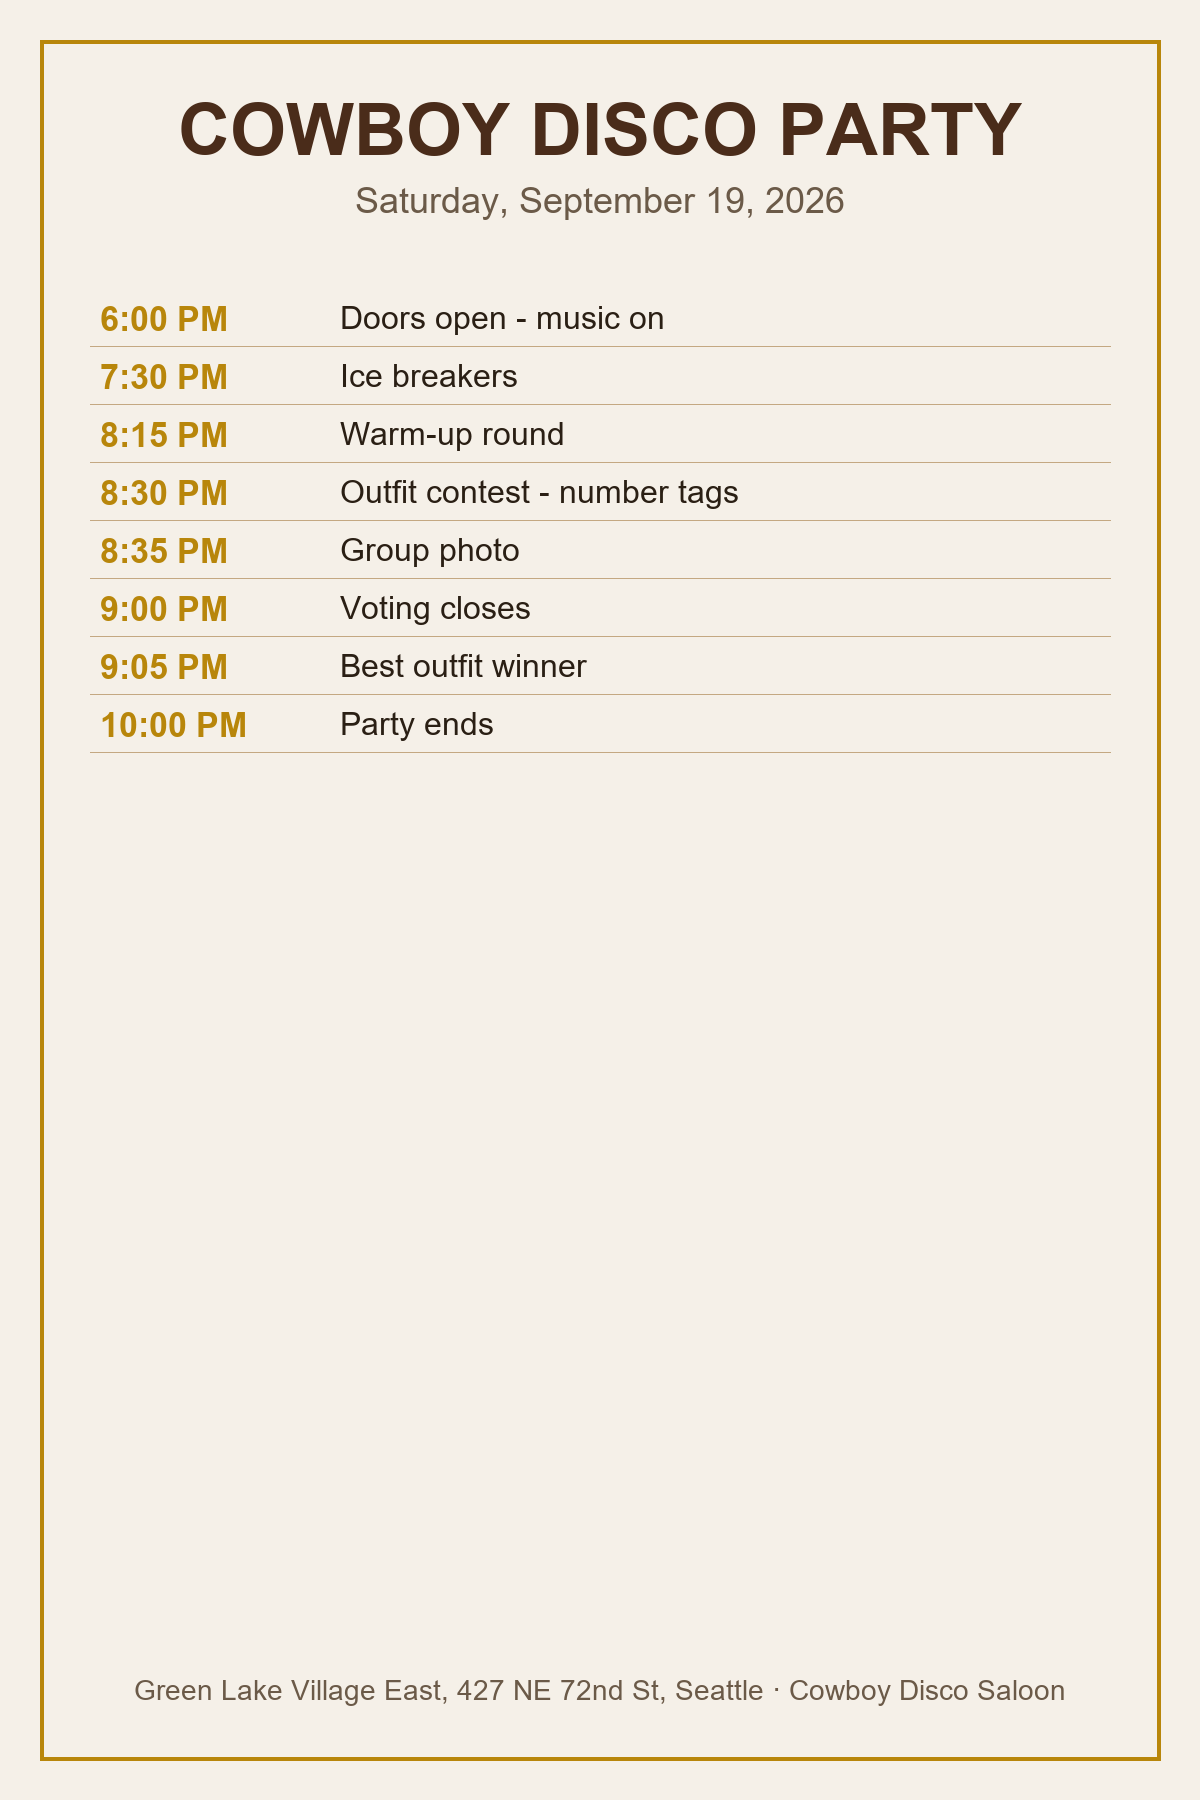
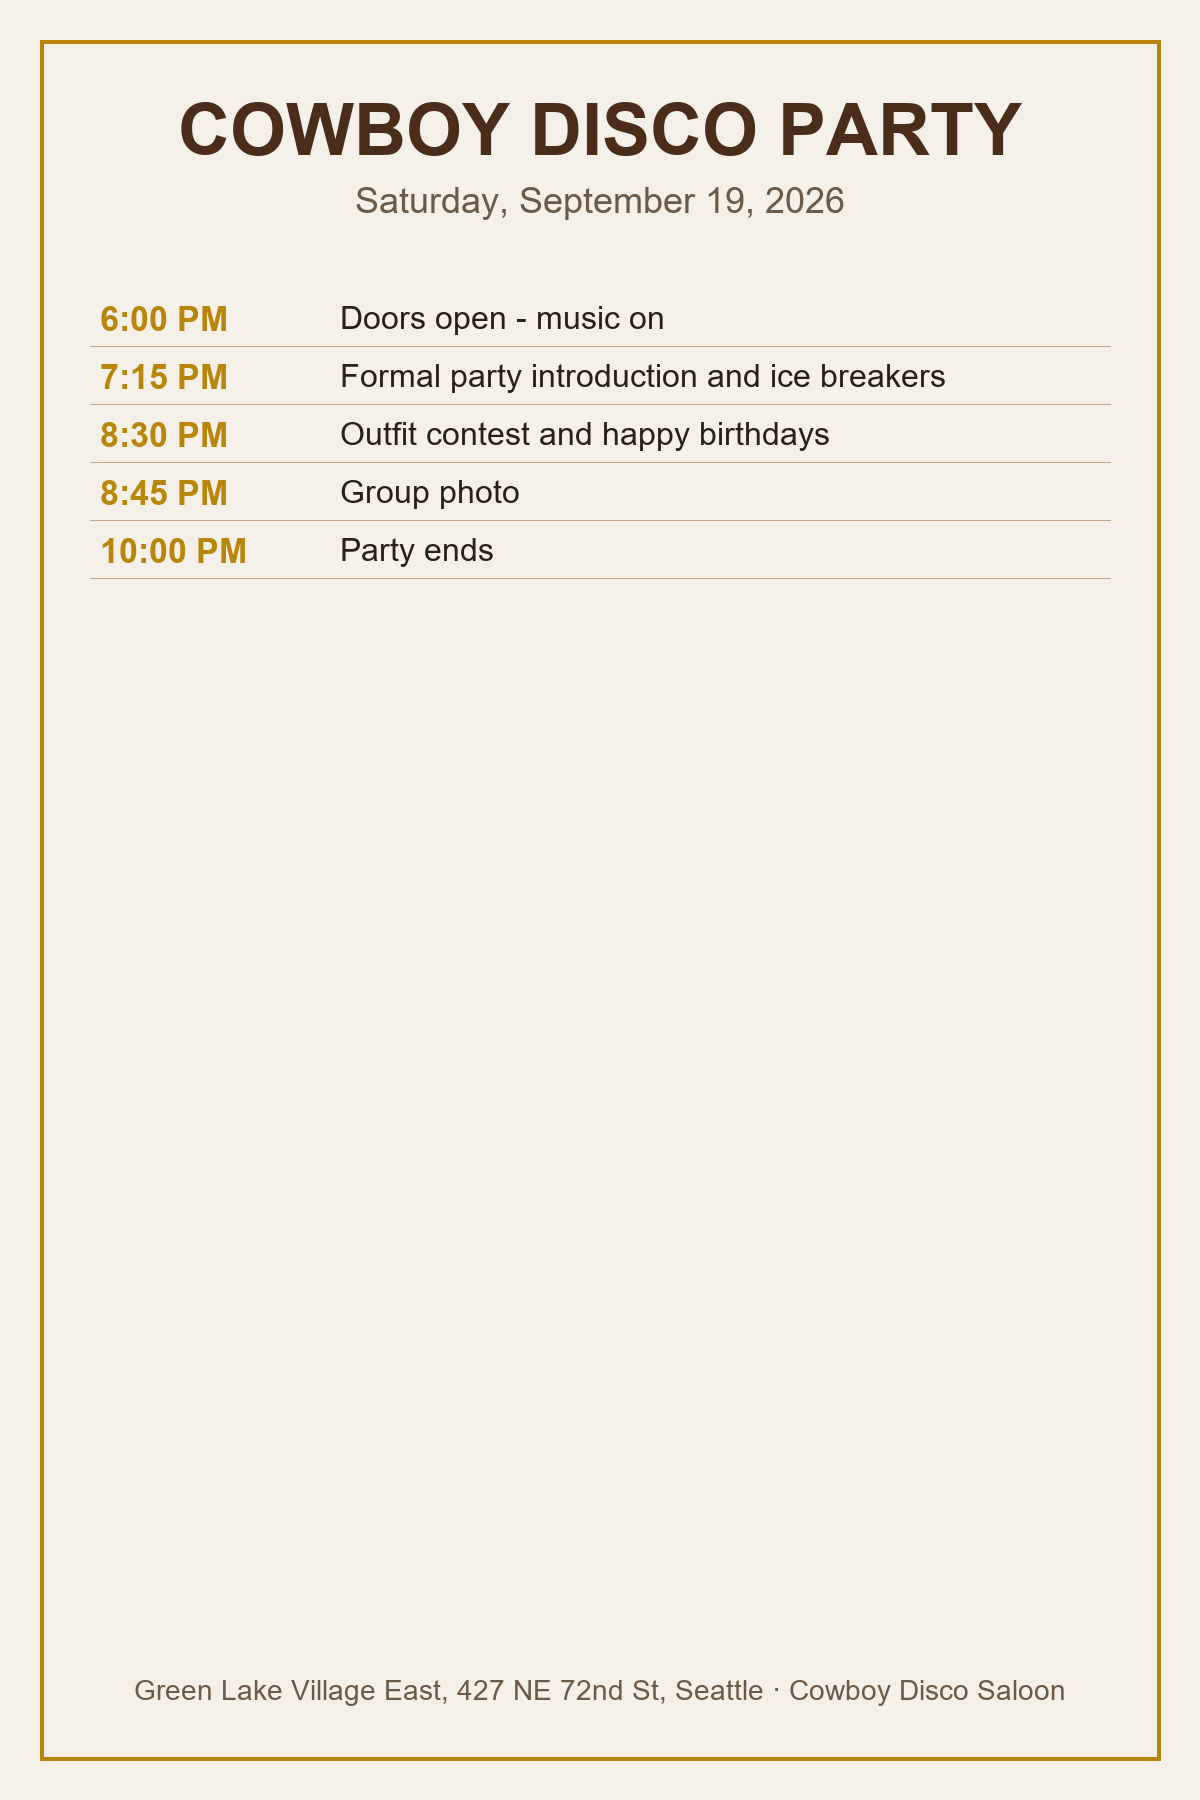
Move group photo to 8:45 PM on the schedule.

Changed region(s): [[0.2775, 0.1867, 0.7708, 0.4044], [0.0925, 0.1867, 0.2158, 0.4356]]

diff --git a/schedule-card.html b/schedule-card.html
@@ -39,7 +39,7 @@
           <tr><td class="phys-schedule__time">6:00 PM</td><td>Doors open · music on</td></tr>
           <tr><td class="phys-schedule__time">7:15 PM</td><td>Formal party introduction and ice breakers</td></tr>
           <tr><td class="phys-schedule__time">8:30 PM</td><td>Outfit contest and happy birthdays</td></tr>
-          <tr><td class="phys-schedule__time">8:35 PM</td><td>Group photo</td></tr>
+          <tr><td class="phys-schedule__time">8:45 PM</td><td>Group photo</td></tr>
           <tr><td class="phys-schedule__time">10:00 PM</td><td>Party ends</td></tr>
         </tbody>
       </table>

diff --git a/party-night.html b/party-night.html
@@ -39,7 +39,7 @@
           <li><strong>All night</strong> — <a href="booth.html">Photo booth</a> → gallery</li>
           <li><strong>7:15 PM</strong> — Formal intro and <a href="ice-breaker.html">ice breakers</a> (full screen)</li>
           <li><strong>8:30 PM</strong> — Outfit contest and happy birthdays (live applause)</li>
-          <li><strong>8:35 PM</strong> — Group photo</li>
+          <li><strong>8:45 PM</strong> — Group photo</li>
           <li><strong>10:00 PM</strong> — Last dance</li>
         </ul>
       </section>

diff --git a/index.html b/index.html
@@ -365,7 +365,7 @@
                 <td>Outfit contest and happy birthdays<span class="schedule-table__note">Live applause — no phone vote</span></td>
               </tr>
               <tr>
-                <td>8:35 PM</td>
+                <td>8:45 PM</td>
                 <td><a href="gallery.html">Group Photo</a></td>
               </tr>
               <tr class="schedule-table__end">

diff --git a/js/plan-data.js b/js/plan-data.js
@@ -389,7 +389,7 @@
     },
     {
       "day": "Saturday",
-      "time": "8:35 AM",
+      "time": "8:45 PM",
       "action": "Group Photo"
     },
     {

diff --git a/sw.js b/sw.js
@@ -1,4 +1,4 @@
-const CACHE = "cdp-v61";
+const CACHE = "cdp-v62";
 const ASSETS = [
   "/",
   "/index.html",

diff --git a/scripts/generate-party-kit.py b/scripts/generate-party-kit.py
@@ -158,7 +158,7 @@ def generate_schedule_card() -> None:
         ("6:00 PM", "Doors open - music on"),
         ("7:15 PM", "Formal party introduction and ice breakers"),
         ("8:30 PM", "Outfit contest and happy birthdays"),
-        ("8:35 PM", "Group photo"),
+        ("8:45 PM", "Group photo"),
         ("10:00 PM", "Party ends"),
     ]
     y = 300
@@ -242,7 +242,7 @@ def generate_party_kit_pdf() -> None:
         ("6:00 PM", "Doors open - music on"),
         ("7:15 PM", "Formal party introduction and ice breakers"),
         ("8:30 PM", "Outfit contest and happy birthdays"),
-        ("8:35 PM", "Group photo"),
+        ("8:45 PM", "Group photo"),
         ("10:00 PM", "Party ends"),
     ]:
         pdf.set_font("Helvetica", "B", 12)
